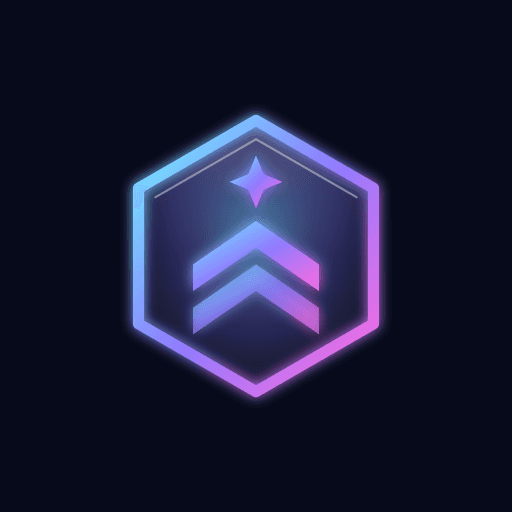
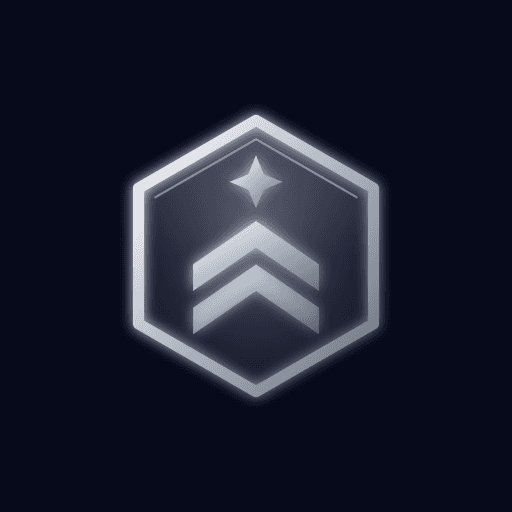
Replace cyan-pink accent with silver-gray and use the pixel font more
Neutral screens (home, setup, guide, volume) now use a silver-gray
accent: primary buttons, "Spiel starten", selected segment borders,
dialog stroke, sliders, title text, logo and app icons. Leftover pink
(superweapon die, VS) becomes red. Silkscreen now also sets buttons,
stat tiles, counters, card type lines and badges.

Changed region(s): [[0.25, 0.2188, 0.75, 0.7812]]

diff --git a/src/ui/theme.css b/src/ui/theme.css
@@ -11,10 +11,11 @@
 
   --text: #eef3ff;
   --muted: rgba(210, 222, 255, 0.62);
-  --accent-a: #5ee7ff;
-  --accent-b: #8b7bff;
-  --accent-c: #e56bff;
-  --grad: linear-gradient(120deg, var(--accent-a), var(--accent-b) 55%, var(--accent-c));
+  /* neutraler Akzent: Silber/Grau (kein Cyan-Pink mehr) */
+  --accent-a: #d9dde5;
+  --accent-b: #a3a9b6;
+  --accent-c: #6b7280;
+  --grad: linear-gradient(120deg, #f4f6f9, var(--accent-b) 52%, var(--accent-c));
   --gold: #ffd76a;
   --ok: #3ef2a0;
   --err: #ff5d7a;
@@ -39,12 +40,12 @@
   --glass-flat: color-mix(in oklab, var(--tint) 10%, rgba(255, 255, 255, 0.055));
 }
 
-/* Akzent für Haupt-Buttons, Meldungsstreifen und Scanner: neutral Cyan→Violett, sonst die Fraktion */
+/* Akzent für Haupt-Buttons, Meldungsstreifen und Scanner: neutral Silbergrau, sonst die Fraktion */
 :root {
   --accent-grad: var(--grad);
-  --accent-ink: #0a0d1f;
+  --accent-ink: #11141c;
   --accent-ink-shadow: none;
-  --accent-glow: rgba(139, 123, 255, 0.45);
+  --accent-glow: rgba(214, 220, 232, 0.28);
   --accent-line: var(--accent-a);
 }
 [style*='--tint'] {
@@ -92,14 +93,18 @@ button, input { font: inherit; color: inherit; }
 .screen { flex: 1; display: flex; flex-direction: column; gap: 14px; padding: 16px; padding-top: calc(16px + env(safe-area-inset-top)); padding-bottom: calc(16px + env(safe-area-inset-bottom)); }
 .screen.center { justify-content: center; }
 
-h1, h2, h3, .title, .faction-name, .versus .vs { font-family: var(--font-display); font-weight: 400; }
-.btn, .card-name, .fighter .n { font-family: var(--font-body); }
-.stat .v, .kv .v, .counters b, .code, .slider b, .mono { font-family: var(--font-mono); }
+/* Pixel-Schrift überall, wo kurze Beschriftungen und Werte stehen; Fließtext und Kartennamen bleiben gut lesbar */
+h1, h2, h3, .title, .faction-name, .versus .vs, .btn, .stat, .kv, .counters, .card-sub, .badge,
+.log-line b, .slider span, .slider b, .guide summary, .pixel {
+  font-family: var(--font-display); font-weight: 400;
+}
+.card-name, .fighter .n { font-family: var(--font-body); }
+.code, .mono { font-family: var(--font-mono); }
 .title { font-size: 11px; letter-spacing: 1.5px; text-transform: uppercase; color: var(--muted); }
 h1.logo {
   font-size: clamp(22px, 7.2vw, 32px); line-height: 1.1; letter-spacing: 0; text-transform: uppercase;
   background: var(--grad); -webkit-background-clip: text; background-clip: text; color: transparent;
-  filter: drop-shadow(0 0 18px rgba(139, 123, 255, 0.45));
+  filter: drop-shadow(0 0 16px rgba(214, 220, 232, 0.3));
 }
 h2 { font-size: 19px; letter-spacing: 0; }
 .muted { color: var(--muted); }
@@ -131,7 +136,7 @@ h2 { font-size: 19px; letter-spacing: 0; }
   background: var(--sheen-image) center / 100% 100% no-repeat, var(--glass);
   border: 1px solid var(--glass-line);
   box-shadow: inset 0 1px 0 var(--glass-hi), 0 4px 16px rgba(0, 0, 0, 0.25);
-  font-weight: 600; font-size: 16px; letter-spacing: 0.4px; cursor: pointer;
+  font-size: 15px; letter-spacing: 0.5px; cursor: pointer;
   transition: transform 0.08s, box-shadow 0.2s, border-color 0.2s;
 }
 a.btn { color: var(--text); text-decoration: none; }
@@ -140,24 +145,19 @@ a.btn { color: var(--text); text-decoration: none; }
 .btn:disabled { opacity: 0.35; cursor: default; }
 .btn.primary {
   background: var(--sheen-image) center / 100% 100% no-repeat, var(--accent-grad);
-  border-color: rgba(255, 255, 255, 0.35); color: var(--accent-ink); text-shadow: var(--accent-ink-shadow); font-weight: 700;
+  border-color: rgba(255, 255, 255, 0.35); color: var(--accent-ink); text-shadow: var(--accent-ink-shadow);
   box-shadow: inset 0 1px 0 rgba(255, 255, 255, 0.6), 0 6px 26px var(--accent-glow);
-}
-.btn.ok {
-  background: var(--sheen-image) center / 100% 100% no-repeat, linear-gradient(120deg, var(--ok), var(--accent-a));
-  border-color: rgba(255, 255, 255, 0.35); color: #04160f; font-weight: 700;
-  box-shadow: inset 0 1px 0 rgba(255, 255, 255, 0.6), 0 6px 26px rgba(62, 242, 160, 0.35);
 }
 .btn.danger { background: rgba(255, 93, 122, 0.08); border-color: rgba(255, 93, 122, 0.55); color: var(--err); }
 .btn.ghost { background: transparent; box-shadow: none; border-color: rgba(255, 255, 255, 0.1); }
 .btn.block { width: 100%; }
 .btn.selected {
-  border-color: var(--accent-a); color: var(--accent-a);
-  background: var(--sheen-image) center / 100% 100% no-repeat, rgba(94, 231, 255, 0.12);
-  box-shadow: inset 0 1px 0 var(--glass-hi), 0 0 18px rgba(94, 231, 255, 0.35);
+  border-color: var(--accent-line); color: #fff;
+  background: var(--sheen-image) center / 100% 100% no-repeat, rgba(255, 255, 255, 0.16);
+  box-shadow: inset 0 1px 0 var(--glass-hi), 0 0 18px var(--accent-glow);
 }
 .seg { display: grid; grid-auto-flow: column; grid-auto-columns: minmax(0, 1fr); gap: 6px; }
-.seg .btn { min-width: 0; padding: 10px 4px; font-size: clamp(13px, 3.9vw, 16px); letter-spacing: 0; }
+.seg .btn { min-width: 0; padding: 10px 2px; font-size: clamp(11px, 3.3vw, 15px); letter-spacing: 0; }
 
 .faction-bar { border-left: 4px solid var(--fc); border-radius: 2px; box-shadow: -6px 0 14px -8px var(--fc); }
 .faction-name {
@@ -166,7 +166,7 @@ a.btn { color: var(--text); text-decoration: none; }
 }
 
 /* Startbildschirm */
-.emblem { width: 132px; height: 132px; margin: 0 auto 8px; filter: drop-shadow(0 0 28px rgba(139, 123, 255, 0.5)); animation: hover 5s ease-in-out infinite; }
+.emblem { width: 132px; height: 132px; margin: 0 auto 8px; filter: drop-shadow(0 0 24px rgba(214, 220, 232, 0.3)); animation: hover 5s ease-in-out infinite; }
 @keyframes hover { 50% { transform: translateY(-8px); } }
 
 /* HUD */
@@ -174,12 +174,12 @@ a.btn { color: var(--text); text-decoration: none; }
 .hud-top { display: grid; grid-template-columns: 1fr auto; gap: 4px 12px; align-items: end; }
 .stats { display: grid; grid-template-columns: repeat(3, 1fr); gap: 8px; }
 .stat { background: var(--glass-flat); border: 1px solid var(--glass-line); border-radius: var(--r-sm); padding: 10px 6px; text-align: center; }
-.stat .v { font-size: 24px; font-weight: 700; font-variant-numeric: tabular-nums; line-height: 1.15; }
-.stat .k { font-size: 10px; letter-spacing: 1.8px; text-transform: uppercase; color: var(--muted); }
-.counters { display: flex; justify-content: space-around; font-size: 13px; color: var(--muted); }
+.stat .v { font-size: clamp(18px, 5.6vw, 24px); line-height: 1.2; }
+.stat .k { font-size: 9px; letter-spacing: 1px; text-transform: uppercase; color: var(--muted); }
+.counters { display: flex; justify-content: space-around; font-size: 11px; color: var(--muted); }
 .counters b { color: var(--text); }
 .actions { display: grid; grid-template-columns: 1fr 1fr; gap: 10px; }
-.action { min-height: 92px; flex-direction: column; gap: 6px; font-size: 16px; }
+.action { min-height: 92px; flex-direction: column; gap: 6px; padding: 10px 6px; font-size: clamp(12px, 3.7vw, 15px); }
 .action svg {
   width: 30px; height: 30px; fill: none; stroke: color-mix(in oklab, var(--fc) 88%, white); stroke-width: 2; stroke-linecap: round; stroke-linejoin: round;
   filter: drop-shadow(0 0 8px color-mix(in oklab, var(--fc) 70%, transparent));
@@ -188,7 +188,7 @@ a.btn { color: var(--text); text-decoration: none; }
   border-color: color-mix(in oklab, var(--fc) 65%, var(--glass-line));
   box-shadow: inset 0 1px 0 var(--glass-hi), 0 0 22px -6px color-mix(in oklab, var(--fc) 70%, transparent);
 }
-.action small { font-family: var(--font-body); font-weight: 400; font-size: 12px; color: var(--muted); }
+.action small { font-size: 10px; color: var(--muted); }
 
 /* Übergabe */
 .handoff { text-align: center; padding: 28px 18px; gap: 8px; border-color: color-mix(in oklab, var(--fc) 45%, var(--glass-line)); box-shadow: inset 0 1px 0 var(--glass-hi), 0 0 60px -10px color-mix(in oklab, var(--fc) 55%, transparent); }
@@ -205,11 +205,11 @@ a.btn { color: var(--text); text-decoration: none; }
 .card-view.compact .card-name { font-size: clamp(16px, 4.8vw, 20px); overflow-wrap: anywhere; }
 .card-view.compact .art { width: clamp(76px, 24vw, 96px); flex: 0 0 clamp(76px, 24vw, 96px); border-radius: 10px; box-shadow: 0 4px 16px -6px color-mix(in oklab, var(--fc) 60%, transparent); }
 .card-name { font-size: 22px; font-weight: 700; }
-.card-sub { font-size: 11px; font-weight: 600; letter-spacing: 2px; text-transform: uppercase; color: color-mix(in oklab, var(--fc) 75%, white); }
-.kv { display: grid; grid-template-columns: repeat(auto-fit, minmax(66px, 1fr)); gap: 6px; }
+.card-sub { font-size: 10px; letter-spacing: 1px; text-transform: uppercase; color: color-mix(in oklab, var(--fc) 75%, white); }
+.kv { display: grid; grid-template-columns: repeat(auto-fit, minmax(62px, 1fr)); gap: 6px; }
 .kv > div { background: var(--glass-flat); border: 1px solid var(--glass-line); border-radius: 12px; padding: 7px 4px; text-align: center; }
-.kv .k { font-size: 10px; letter-spacing: 1.2px; text-transform: uppercase; color: var(--muted); }
-.kv .v { font-size: 19px; font-weight: 700; }
+.kv .k { font-size: 9px; letter-spacing: 0.5px; text-transform: uppercase; color: var(--muted); }
+.kv .v { font-size: 17px; }
 
 .defbar { height: 8px; border-radius: 4px; background: rgba(255, 255, 255, 0.08); overflow: hidden; }
 .defbar > i { display: block; height: 100%; background: linear-gradient(90deg, var(--ok), var(--accent-a)); box-shadow: 0 0 10px rgba(62, 242, 160, 0.6); transition: width 0.4s; }
@@ -241,7 +241,7 @@ a.btn { color: var(--text); text-decoration: none; }
 .dialog::before { content: ''; position: absolute; left: 18px; right: 18px; top: 0; height: 3px; border-radius: 0 0 3px 3px; background: var(--tone); box-shadow: 0 0 16px 1px var(--accent-glow); }
 .dialog.error { --tone: linear-gradient(90deg, var(--err), var(--warn)); }
 .dialog.warn { --tone: linear-gradient(90deg, var(--warn), var(--gold)); }
-.dialog h3 { font-size: 21px; font-weight: 700; }
+.dialog h3 { font-size: 18px; }
 .dialog.error h3 { color: var(--err); }
 @keyframes pop { from { transform: scale(0.94) translateY(6px); opacity: 0; } }
 
@@ -270,9 +270,8 @@ a.btn { color: var(--text); text-decoration: none; }
 /* Kampf */
 .versus { display: grid; grid-template-columns: 1fr auto 1fr; gap: 10px; align-items: center; }
 .versus .vs {
-  font-family: var(--font-display); font-weight: 800; font-size: 20px;
-  background: linear-gradient(120deg, var(--err), var(--accent-c)); -webkit-background-clip: text; background-clip: text; color: transparent;
-  filter: drop-shadow(0 0 10px rgba(255, 93, 122, 0.6));
+  font-size: 20px; color: var(--err);
+  text-shadow: 0 0 12px rgba(255, 93, 122, 0.6);
 }
 .fighter { display: flex; flex-direction: column; gap: 6px; text-align: center; }
 .fighter .art {
@@ -284,19 +283,20 @@ a.btn { color: var(--text); text-decoration: none; }
 .fighter .n { font-weight: 700; font-size: 14px; }
 .log { display: flex; flex-direction: column; gap: 6px; }
 .log-line { display: flex; align-items: center; gap: 12px; padding: 9px 12px; border-radius: var(--r-sm); background: var(--glass-flat); border: 1px solid var(--glass-line); animation: pop 0.2s ease-out; }
+.log-line b { font-size: 13px; }
 .log-line.hit { border-left: 3px solid var(--err); box-shadow: -6px 0 16px -10px var(--err); }
 .log-line.miss { border-left: 3px solid rgba(255, 255, 255, 0.3); }
 .die {
   width: 38px; height: 38px; flex: 0 0 38px; border-radius: 10px; padding: 5px;
-  background: linear-gradient(145deg, #ffffff, #d9e2ff); box-shadow: 0 0 14px rgba(160, 190, 255, 0.45), inset 0 -2px 0 rgba(0, 0, 0, 0.12);
+  background: linear-gradient(145deg, #ffffff, #d5d9e0); box-shadow: 0 0 14px rgba(214, 220, 232, 0.35), inset 0 -2px 0 rgba(0, 0, 0, 0.12);
   display: grid; grid-template-columns: repeat(3, 1fr); grid-template-rows: repeat(3, 1fr);
 }
-.die i { width: 7px; height: 7px; border-radius: 50%; background: #1a1f45; place-self: center; }
+.die i { width: 7px; height: 7px; border-radius: 50%; background: #1b1e26; place-self: center; }
 .die.rolling { animation: shake 0.5s linear; }
 @keyframes shake { 25% { transform: rotate(-12deg); } 75% { transform: rotate(12deg); } }
-.die.always { background: linear-gradient(145deg, var(--err), var(--accent-c)); color: #fff; font-size: 20px; display: flex; align-items: center; justify-content: center; font-weight: 900; }
+.die.always { background: linear-gradient(145deg, var(--err), #a3163a); color: #fff; font-size: 20px; display: flex; align-items: center; justify-content: center; font-family: var(--font-display); }
 
-.badge { display: inline-block; padding: 3px 10px; border-radius: 999px; font-size: 12px; font-weight: 700; background: var(--glass-flat); border: 1px solid var(--glass-line); }
+.badge { display: inline-block; padding: 4px 10px; border-radius: 999px; font-size: 11px; background: var(--glass-flat); border: 1px solid var(--glass-line); }
 .badge.gold { color: #1a1300; background: linear-gradient(120deg, var(--gold), #ffb24a); border-color: transparent; box-shadow: 0 0 14px rgba(255, 215, 106, 0.45); }
 .divider { height: 1px; background: var(--glass-line); }
 
@@ -315,8 +315,7 @@ a.btn { color: var(--text); text-decoration: none; }
 
 /* Lautstärke-Regler */
 .slider { display: grid; grid-template-columns: 1fr auto; gap: 8px 12px; align-items: center; }
-.slider span { font-family: var(--font-display); }
-.slider b { font-variant-numeric: tabular-nums; color: var(--accent-a); }
+.slider b { color: var(--accent-a); }
 .slider input {
   grid-column: 1 / -1; width: 100%; height: 30px; background: transparent; cursor: pointer;
   -webkit-appearance: none; appearance: none; outline: none;
@@ -331,15 +330,15 @@ a.btn { color: var(--text); text-decoration: none; }
 }
 .slider input::-webkit-slider-thumb {
   -webkit-appearance: none; appearance: none; width: 28px; height: 28px; margin-top: -10px; border-radius: 50%;
-  background: linear-gradient(145deg, #ffffff, #d9e2ff); border: 2px solid rgba(255, 255, 255, 0.85);
-  box-shadow: 0 0 16px rgba(94, 231, 255, 0.65);
+  background: linear-gradient(145deg, #ffffff, #d5d9e0); border: 2px solid rgba(255, 255, 255, 0.85);
+  box-shadow: 0 0 16px var(--accent-glow);
 }
 .slider input::-moz-range-thumb {
   width: 26px; height: 26px; border-radius: 50%;
-  background: linear-gradient(145deg, #ffffff, #d9e2ff); border: 2px solid rgba(255, 255, 255, 0.85);
-  box-shadow: 0 0 16px rgba(94, 231, 255, 0.65);
+  background: linear-gradient(145deg, #ffffff, #d5d9e0); border: 2px solid rgba(255, 255, 255, 0.85);
+  box-shadow: 0 0 16px var(--accent-glow);
 }
-.slider input:focus-visible::-webkit-slider-thumb { outline: 3px solid rgba(94, 231, 255, 0.5); }
+.slider input:focus-visible::-webkit-slider-thumb { outline: 3px solid var(--accent-glow); }
 
 /* Update-Hinweis der installierten App */
 .toast {

diff --git a/src/ui/cardArt.ts b/src/ui/cardArt.ts
@@ -20,7 +20,7 @@ export function placeholderSvg(id: number): string {
   const icon = ICONS[kind === 'unit' ? card.unitClass! : kind];
   return `<svg xmlns="http://www.w3.org/2000/svg" viewBox="0 0 400 300">
 <defs>
-<radialGradient id="g" cx="50%" cy="40%" r="68%"><stop offset="0" stop-color="${color}" stop-opacity=".55"/><stop offset=".55" stop-color="#6a4bff" stop-opacity=".12"/><stop offset="1" stop-color="#070a1a" stop-opacity="0"/></radialGradient>
+<radialGradient id="g" cx="50%" cy="40%" r="68%"><stop offset="0" stop-color="${color}" stop-opacity=".55"/><stop offset=".55" stop-color="${color}" stop-opacity=".1"/><stop offset="1" stop-color="#070a1a" stop-opacity="0"/></radialGradient>
 <pattern id="p" width="28" height="48.5" patternUnits="userSpaceOnUse"><path d="M14 0L28 8.1V24.2L14 32.3L0 24.2V8.1ZM14 32.3V48.5" fill="none" stroke="#bfe6ff" stroke-opacity=".08"/></pattern>
 <linearGradient id="i" x1="0" y1="0" x2="0" y2="1"><stop offset="0" stop-color="#ffffff"/><stop offset=".55" stop-color="${color}"/></linearGradient>
 <linearGradient id="s" x1="0" y1="0" x2="0" y2="1"><stop offset="0" stop-color="#fff" stop-opacity=".16"/><stop offset="1" stop-color="#fff" stop-opacity="0"/></linearGradient>

diff --git a/src/ui/screens.tsx b/src/ui/screens.tsx
@@ -103,7 +103,7 @@ export function Setup({ onStart, onBack }: { onStart: (seats: Faction[], vpLimit
         {notice && <div class="small" style={{ color: 'var(--err)' }}>{notice}</div>}
         {seats.length > 0 && <button class="btn ghost" onClick={() => setSeats([])}>Auswahl zurücksetzen</button>}
       </div>
-      <button class="btn ok block" style={{ marginTop: 'auto' }} disabled={!full} onClick={() => onStart(seats, limit)}>Spiel starten</button>
+      <button class="btn primary block" style={{ marginTop: 'auto' }} disabled={!full} onClick={() => onStart(seats, limit)}>Spiel starten</button>
     </div>
   );
 }

diff --git a/CLAUDE.md b/CLAUDE.md
@@ -50,12 +50,13 @@ npx pwa-assets-generator         # regenerate app icons in public/ui/ from publi
 - Flows in `flows.tsx` follow the terminal: scan → confirm card → execute.
 - Design "Holografisches Glas" lives in `theme.css` (tokens on `:root`). Only large surfaces (`.panel`, `.dialog`, `.glass`) use `backdrop-filter`, for phone performance. Buttons and tiles use plain translucent gradients.
 - Faction color arrives as `--fc` and `--tint` via `factionStyle()`. `App.tsx` also puts it on the `display: contents` root, so dialogs and the scanner are tinted during a turn.
-  - Primary buttons, the dialog top stroke and the scanner frame use `--accent-grad`/`--accent-ink`/`--accent-glow`/`--accent-line`. These are cyan→violet on neutral screens and the faction color (white text) inside tinted elements. Only error (red) and warning (orange) dialogs keep signal colors.
+  - Primary buttons, the dialog top stroke and the scanner frame use `--accent-grad`/`--accent-ink`/`--accent-glow`/`--accent-line`. These are a silver/gray gradient on neutral screens and the faction color (white text) inside tinted elements. The user does not want the old cyan→violet→pink gradient anywhere (logo and icons included); only the background art keeps its nebula colors. Only error (red) and warning (orange) dialogs keep signal colors.
   - Custom properties resolve where they are declared. So anything derived from `--tint`/`--fc` (e.g. `--glass`) is re-declared under `:root, [style*='--tint']`. Don't define such derived variables on `:root` alone, or they stay cyan.
 - Fonts as in the ModZart_Web project, self-hosted via fontsource (offline):
-  - Silkscreen (pixel, `--font-display`): headings, labels, faction names
-  - Space Grotesk (`--font-body`): text, buttons
-  - JetBrains Mono (`--font-mono`): numbers
+  - Silkscreen (pixel, `--font-display`): the user's favourite. Used for headings, faction names, all buttons, stat tiles and values, counters, card type lines, key/value tiles, badges, combat log headings.
+  - Space Grotesk (`--font-body`): running text and card names (readability)
+  - JetBrains Mono (`--font-mono`): card codes only
+  - Pixel text is wide. Font sizes use `clamp()`; check 320 px width after changes.
   - Silkscreen/JetBrains are imported as latin-only subsets; German umlauts are included.
 - `Guide.tsx` is the in-app Kurzanleitung, reachable only from the home screen. Rule values in it follow the code, not the manual.
 
